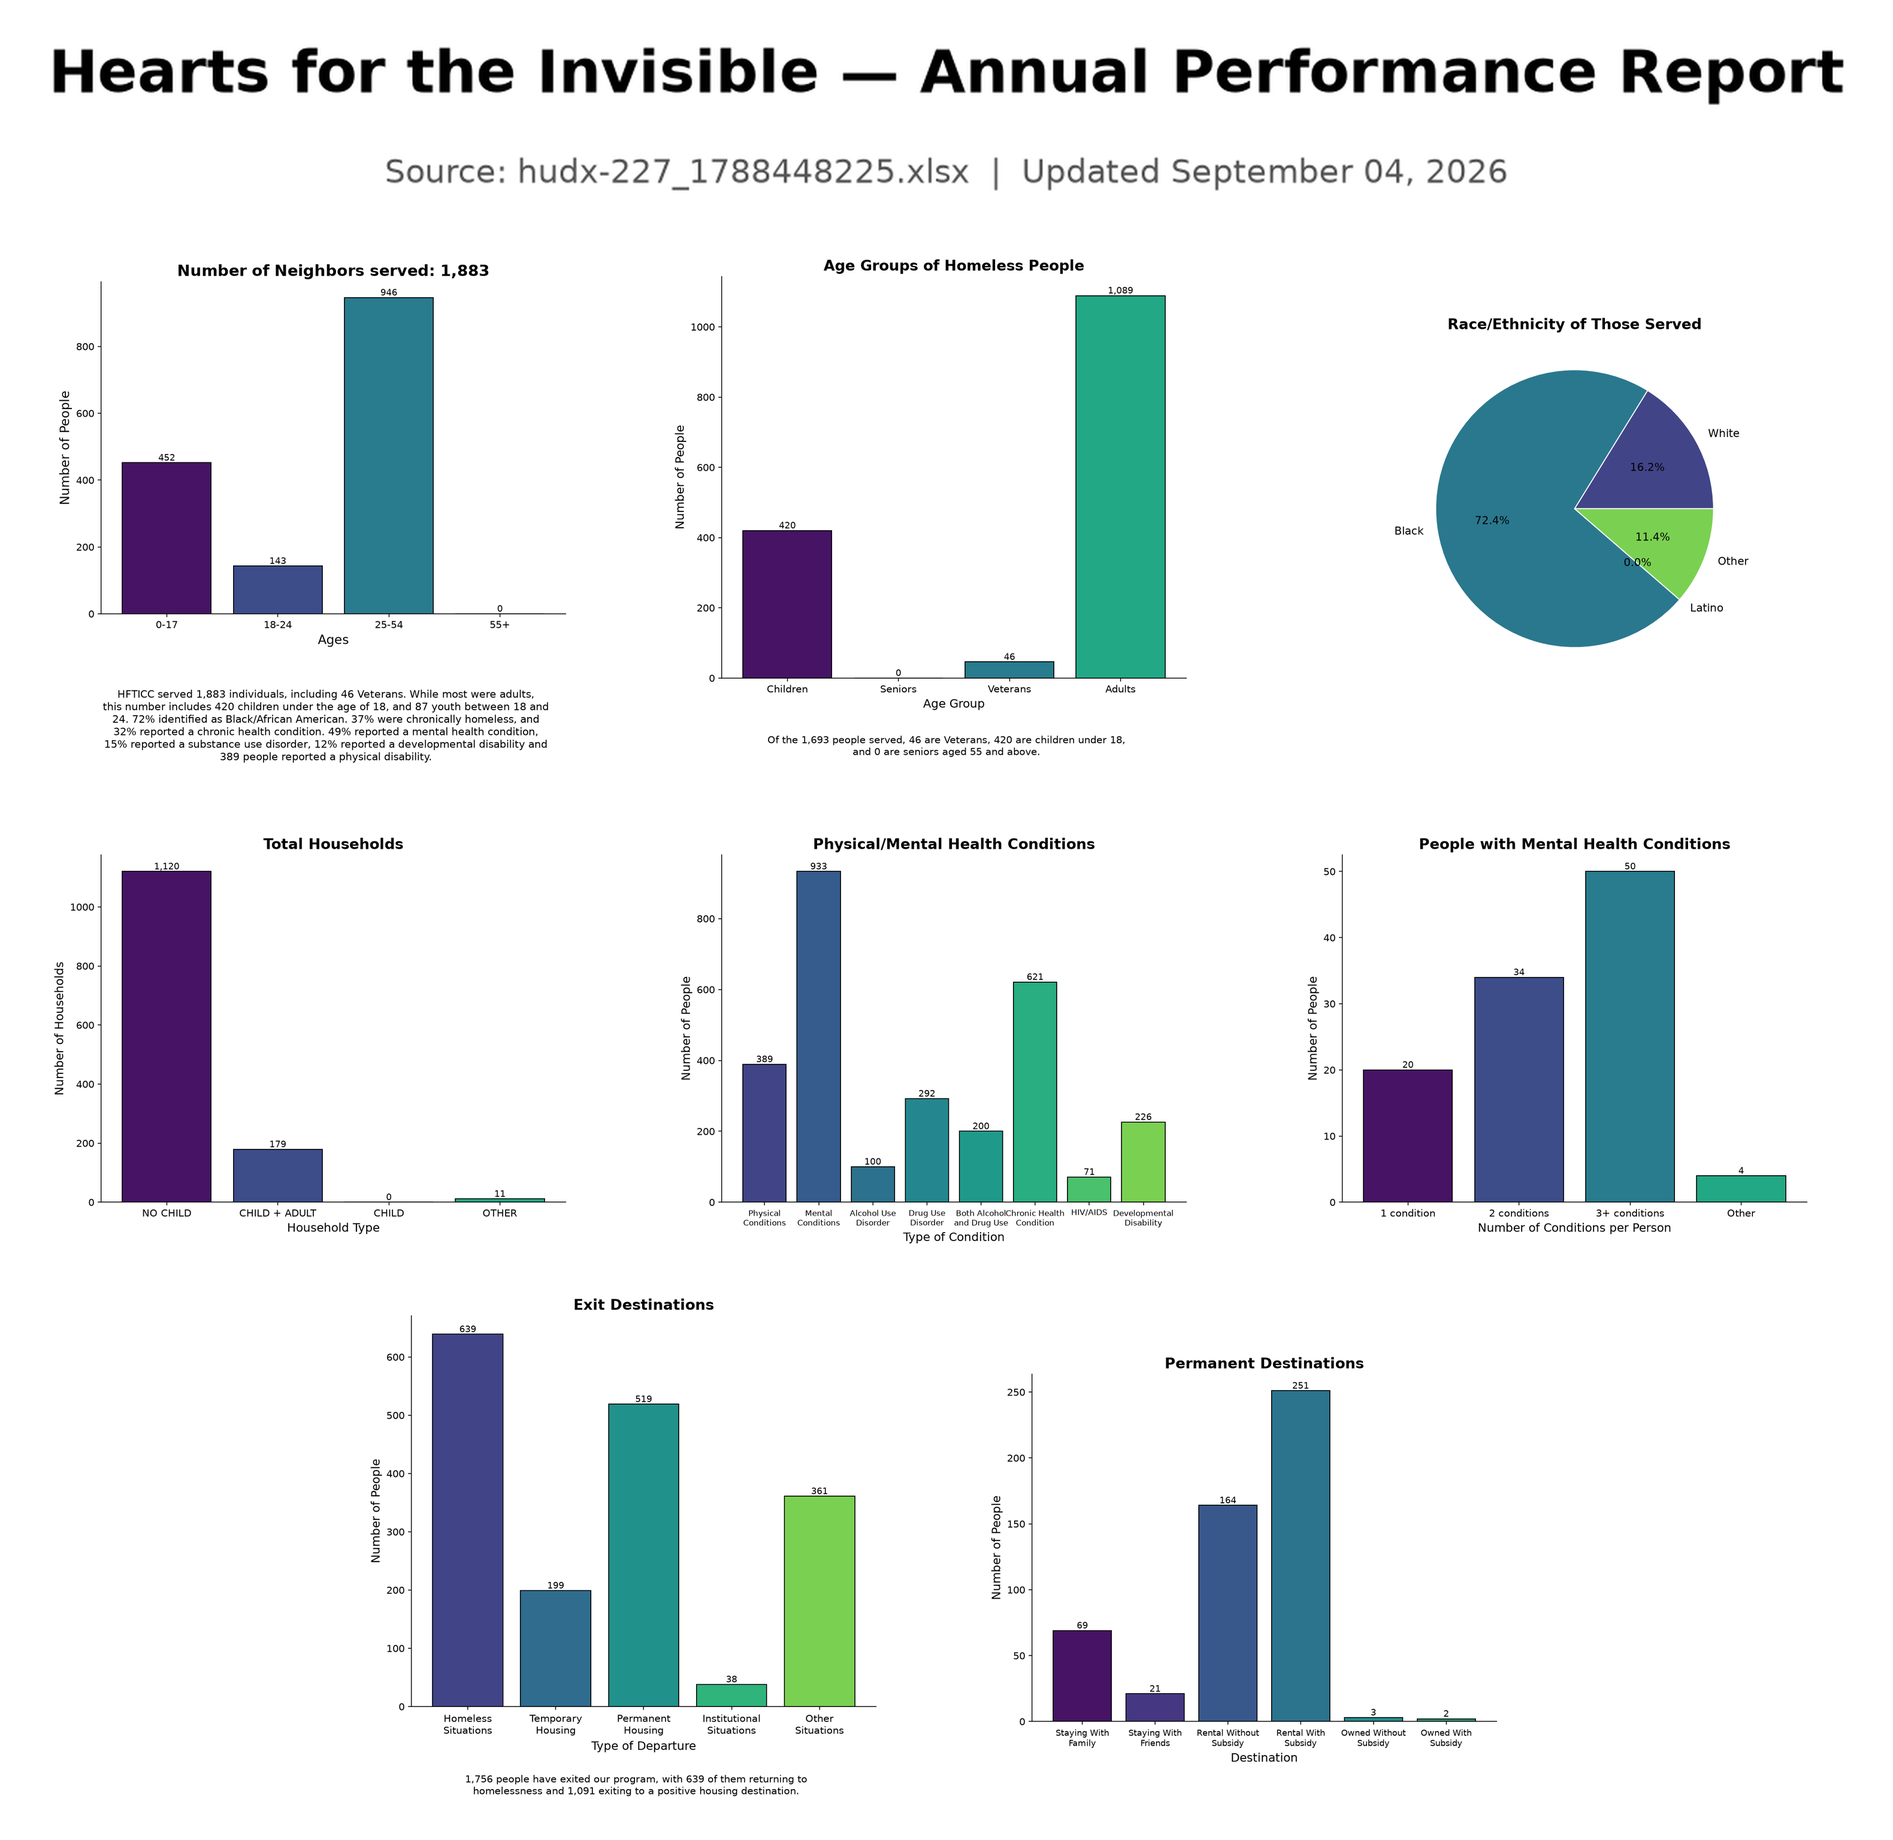
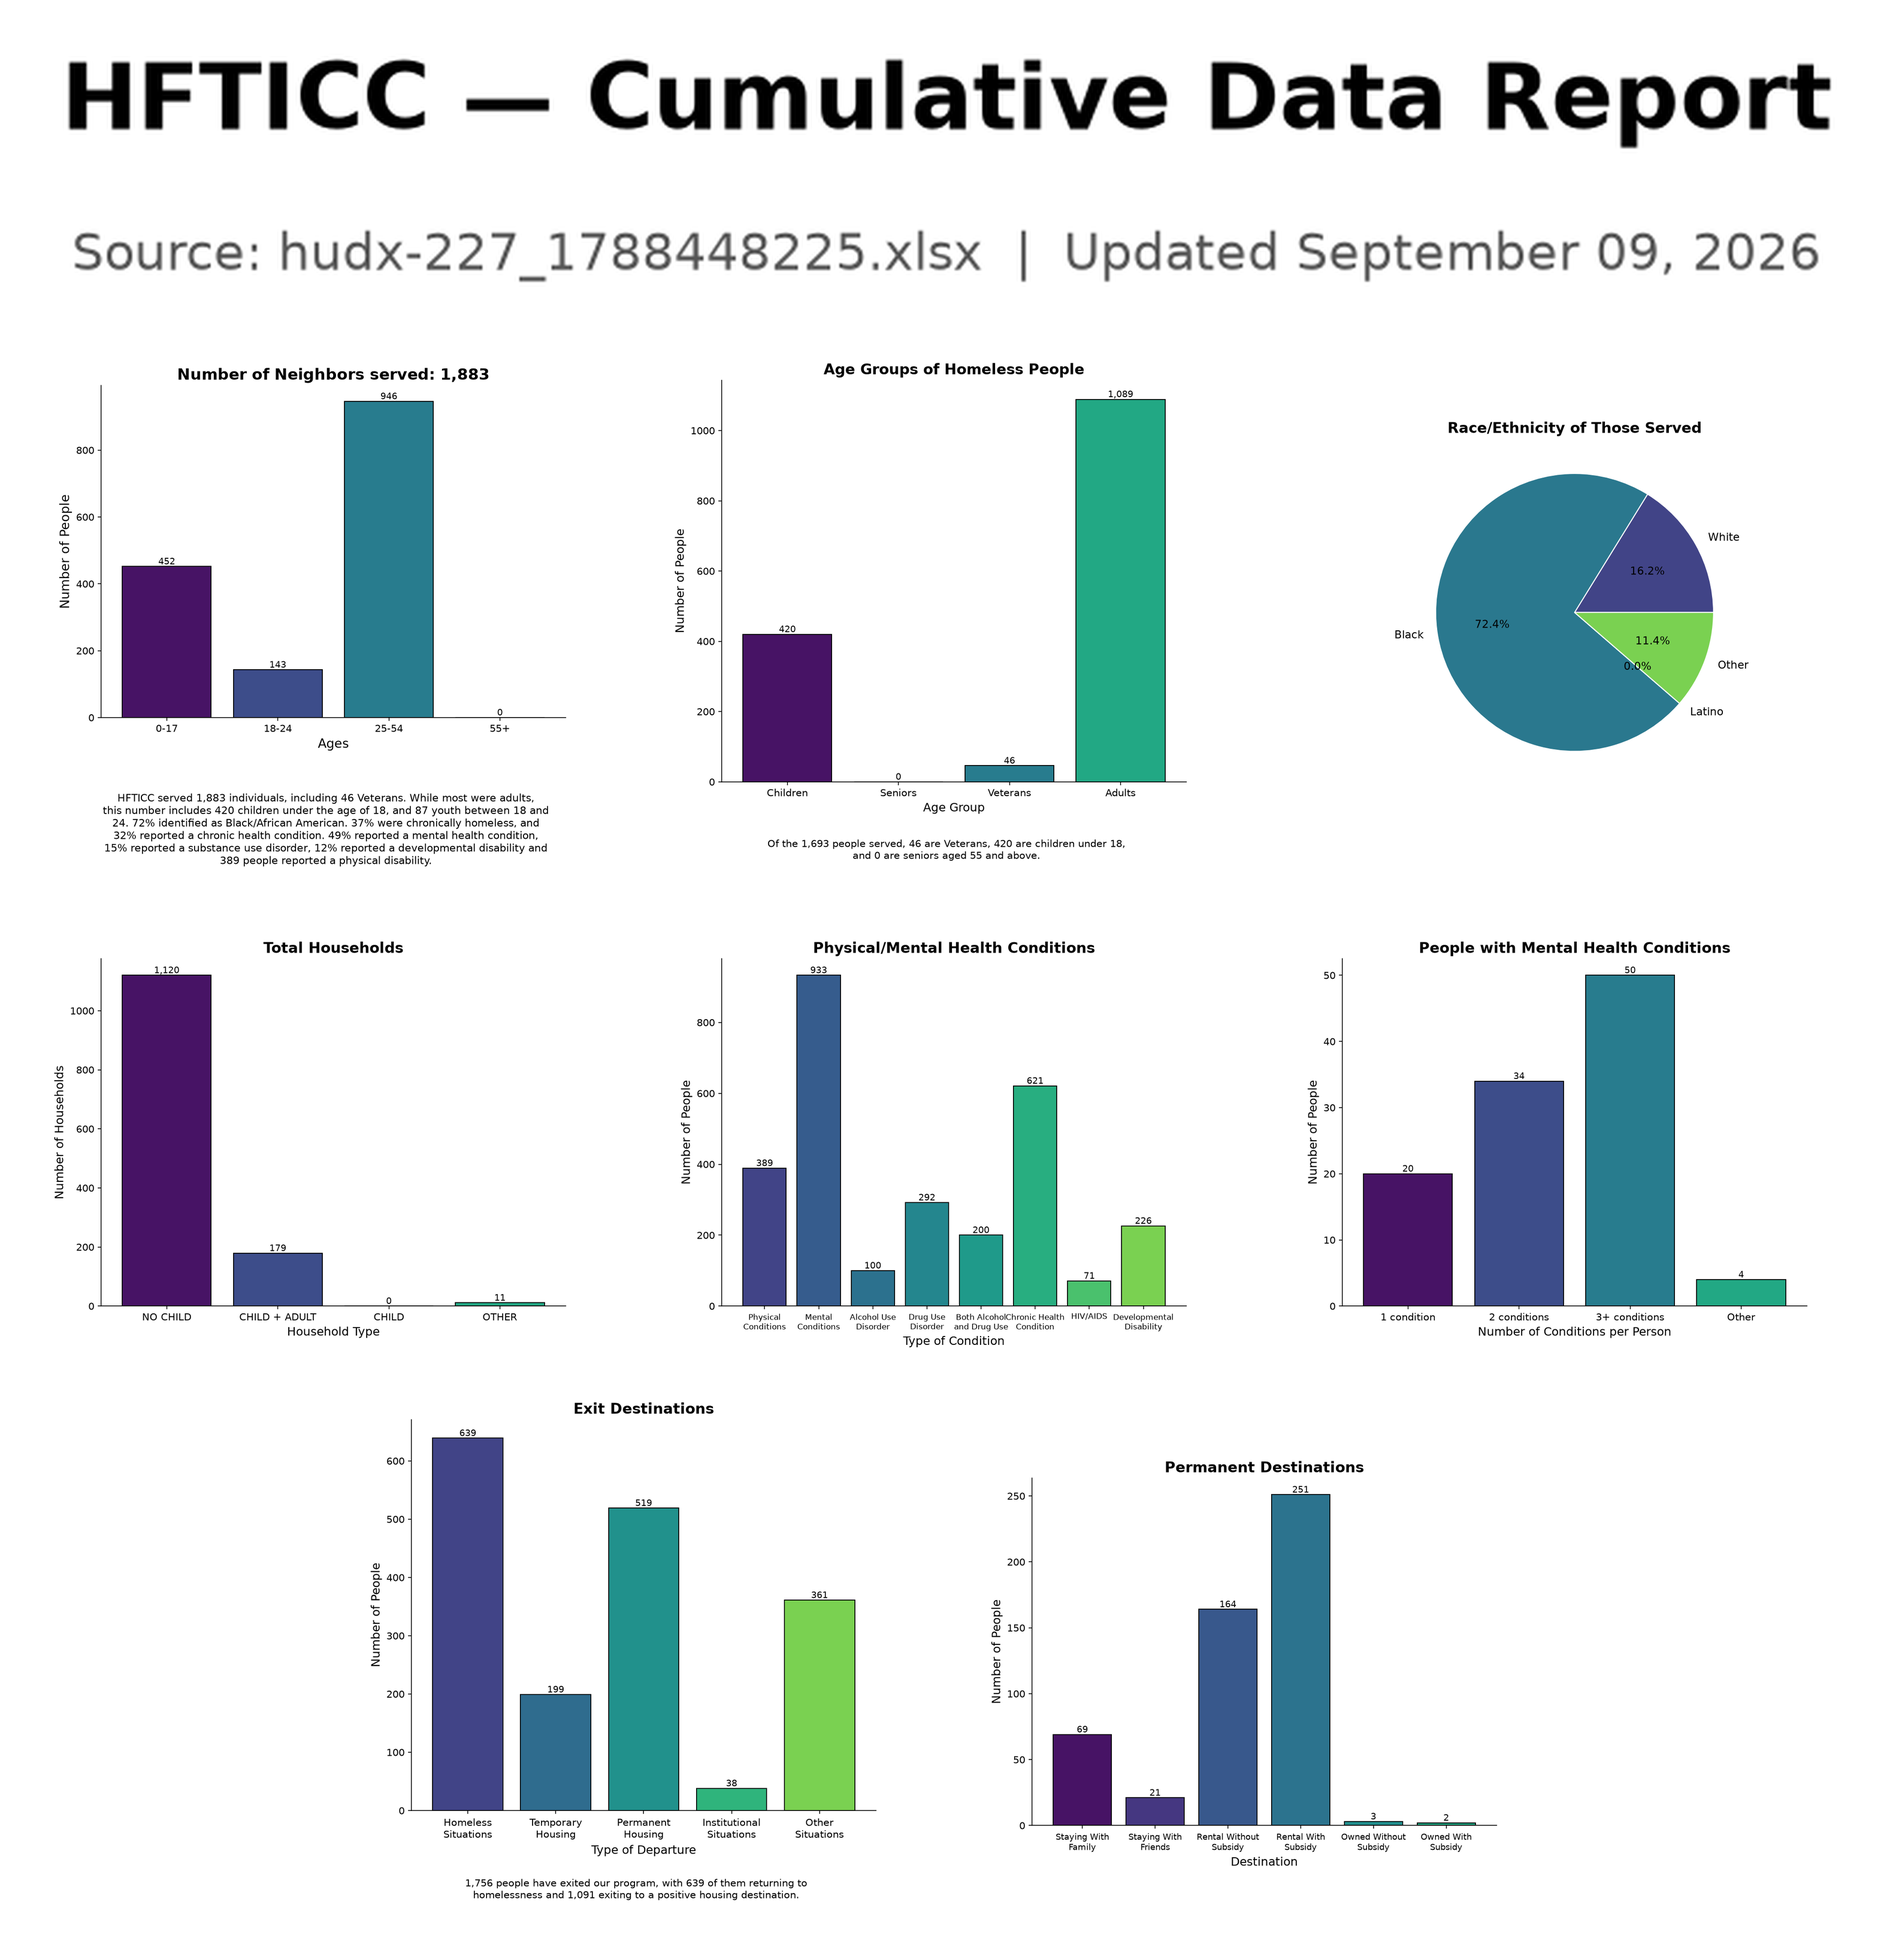
Update APR dashboard 2026-09-09 12:18

diff --git a/index.html b/index.html
@@ -3,7 +3,7 @@
 <head>
 <meta charset="utf-8">
 <meta name="viewport" content="width=device-width, initial-scale=1">
-<title>Hearts for the Invisible — Annual Performance Report</title>
+<title>HFTICC — Cumulative Data Report</title>
 <style>
   html, body { margin: 0; padding: 0; background: #ffffff; }
   body { font-family: -apple-system, Segoe UI, Roboto, sans-serif; color: #1c1c1c; }
@@ -15,9 +15,9 @@
 </head>
 <body>
   <div class="wrap">
-    <img src="charts/dashboard.png?v=20260904113356"
-         alt="Hearts for the Invisible — Annual Performance Report charts">
-    <p class="meta">Source: hudx-227_1788448225.xlsx &nbsp;&bull;&nbsp; Updated: September 04, 2026 11:33 AM</p>
+    <img src="charts/dashboard.png?v=20260909121843"
+         alt="HFTICC — Cumulative Data Report charts">
+    <p class="meta">Source: hudx-227_1788448225.xlsx &nbsp;&bull;&nbsp; Updated: September 09, 2026 12:18 PM</p>
   </div>
 </body>
 </html>
